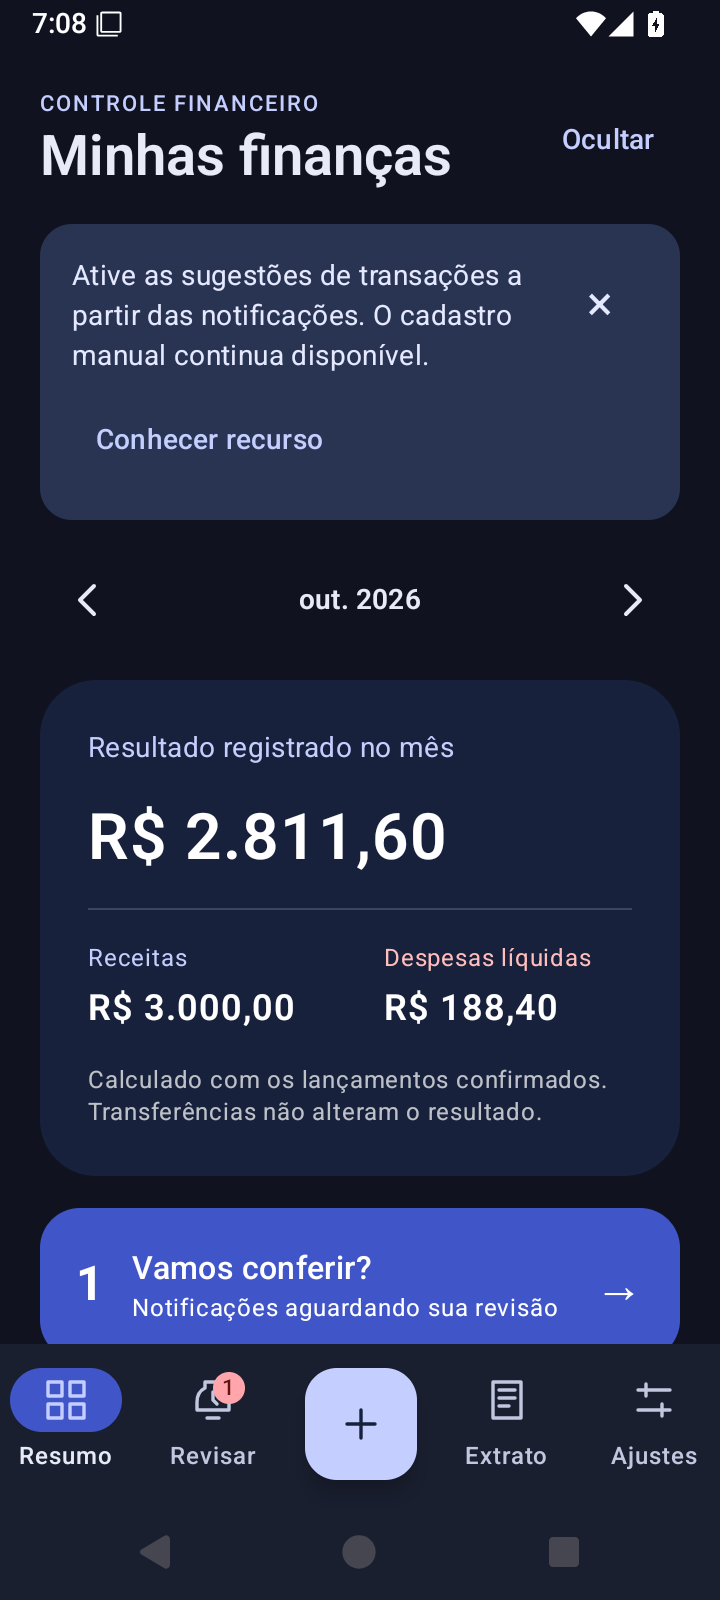
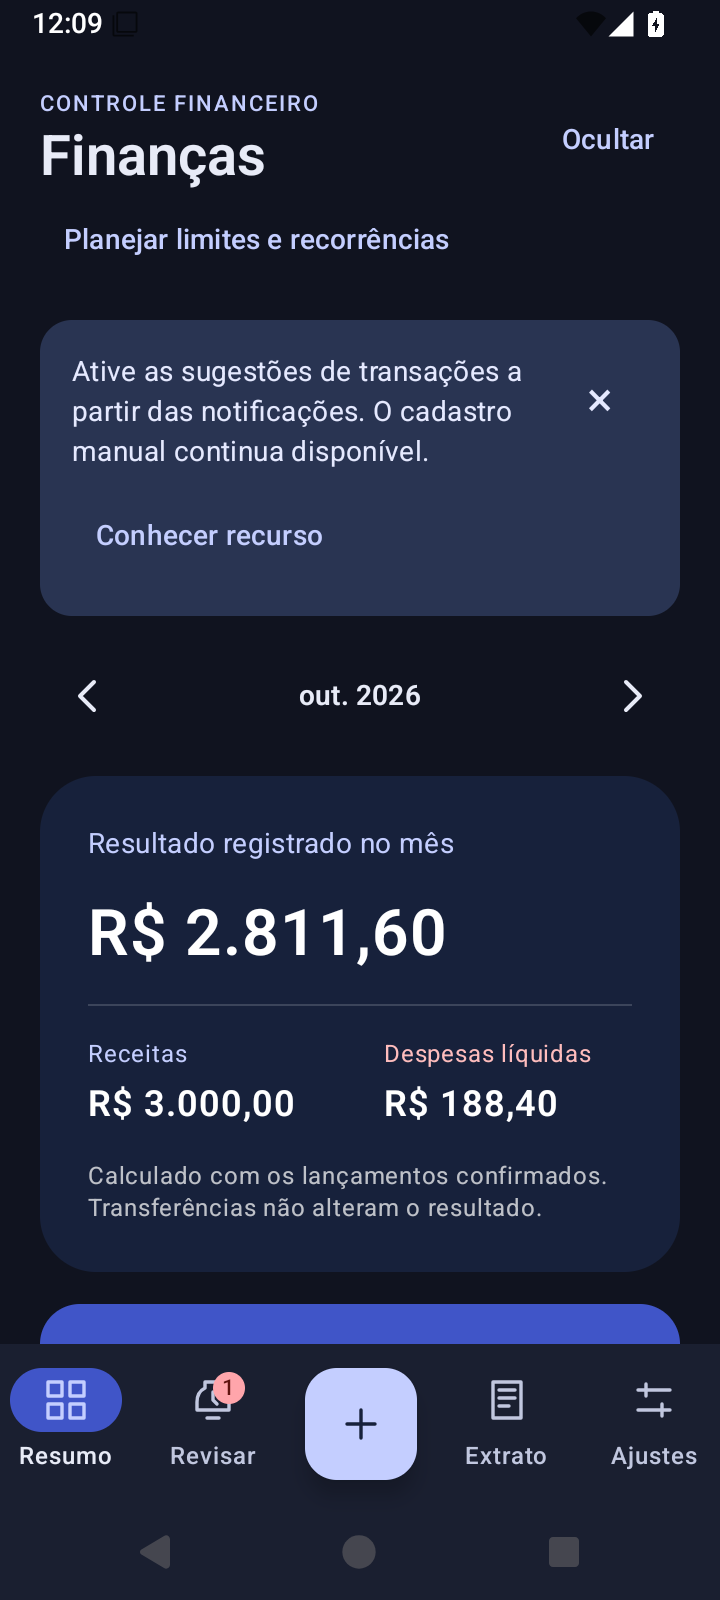
docs: registra 178 testes, limites e capturas dos opcionais [skip ci]

diff --git a/docs/qualidade.md b/docs/qualidade.md
@@ -1,55 +1,67 @@
 # Qualidade e validação
 
-## Referência inicial
+## Referência e falhas anteriores
 
-A execução [40100369119](https://github.com/Mateus1804/controle-financeiro-android/actions/runs/40100369119), com 31 testes Kotlin e 13 testes Android aprovados, constitui a referência da primeira entrega.
+A primeira entrega teve 31 testes Kotlin e 13 testes Android aprovados na execução [40100369119](https://github.com/Mateus1804/controle-financeiro-android/actions/runs/40100369119). A revisão anterior da interface teve 51 testes Kotlin e 41 testes Android aprovados em [40124797196](https://github.com/Mateus1804/controle-financeiro-android/actions/runs/40124797196).
 
-Antes da revisão da interface, houve uma tentativa de executar as tarefas Gradle localmente. O download da distribuição falhou com `Network is unreachable`, antes do início dos testes. Essa limitação do ambiente é registrada separadamente das falhas de código. A compilação e a execução da suíte ocorreram no GitHub Actions.
+Antes dos opcionais, a revisão editorial apresentou uma falha na execução [40129480372](https://github.com/Mateus1804/controle-financeiro-android/actions/runs/40129480372): o teste encontrava tanto o título quanto a aba chamados Ajustes. A compilação e o Lint haviam passado. O seletor foi corrigido para identificar a aba clicável, preservando as verificações do tema e da recriação.
 
-## Revisão da interface — 24/10/2026
+A tentativa local de executar Gradle falhou no download da distribuição com `Network is unreachable`, antes do início dos testes. A validação executável ocorreu no GitHub Actions; a indisponibilidade local não foi registrada como teste aprovado.
 
-O código do commit `36e9849e0a225d5c39b0db104609e73d27de5443` foi validado na execução [40124797196](https://github.com/Mateus1804/controle-financeiro-android/actions/runs/40124797196).
+## Opcionais — 24/10/2026
 
-| Verificação | Resultado |
+O código do commit `72c822d93d5a732236dce0c90517d070d28d35f7` foi validado na execução [40145275584](https://github.com/Mateus1804/controle-financeiro-android/actions/runs/40145275584). O commit posterior de documentação e imagens não altera o código validado.
+
+| Comando ou verificação | Resultado |
 | --- | --- |
-| `:core:test` | 51 testes aprovados; zero falhas, erros ou testes pulados. |
-| Testes instrumentados | 41 testes aprovados no Android 15, API 35, x86_64. |
-| `:app:lintDebug` | Zero erros e 11 avisos: um de SDK alvo e dez de versões de dependências. |
+| `:core:test` | 102 testes aprovados; zero falhas, erros ou testes pulados. |
+| `bash scripts/run-device-tests.sh` | 76 testes instrumentados aprovados no Android 15, API 35, x86_64; zero testes pulados. |
+| `:app:lintDebug` | Zero erros; 14 avisos registrados abaixo. |
 | `:app:assembleDebug` | APK de depuração gerado. |
 | `:app:assembleDebugAndroidTest` | APK da suíte instrumentada gerado. |
 | `python3 scripts/verify-wrapper.py` | SHA-256 do Gradle Wrapper conferido. |
-| `python3 scripts/verify-manifest.py` | Permissões do manifesto mesclado conferidas. |
+| `python3 scripts/verify-manifest.py` | Permissões limitadas e serviços protegidos; backup automático do Android desativado. |
 | `python3 scripts/verify-contrast.py` | Dez pares explícitos de texto e fundo acima de 4,5:1. |
+| `python3 scripts/verify-bank-fixtures.py` | 25 casos sintéticos; zero casos reais anonimizados. |
 | `git diff --check` | Sem problemas de espaços no diff local. |
 
-O resultado foi de **92 testes aprovados**, sem testes pulados nessa execução. Os jobs de compilação e emulador concluíram com sucesso. A compilação também registra um aviso de API obsoleta em `isStatusBarContrastEnforced`, usada no ajuste de compatibilidade das janelas de diálogo; sua substituição permanece prevista para a revisão de SDK.
+O resultado consolidado é de **178 testes aprovados**. Os testes instrumentados utilizaram emulador Pixel 2 com 720 × 1600 pixels e densidade 320, aproximadamente 360 × 800 dp. A suíte usa `IsolatedAndroidTestRunner`, que bloqueia aparelhos físicos para impedir a limpeza acidental de uma instalação com dados pessoais.
 
-As versões de ferramentas e bibliotecas permanecem fixadas nesta revisão. Os avisos de atualização e SDK continuam visíveis, sem supressão de regras para ocultá-los.
+Os avisos de Lint restantes são um de SDK alvo, dez de atualização de dependências e três `UseKtx` nas gravações verificadas de `CapturePreferences`. Os três avisos `UseKtx` permanecem justificados: a extensão KTX `edit` retorna `Unit` e não expõe o resultado de `commit()`, que precisa ser verificado antes de substituir dados ou afirmar que a proteção foi salva. A API padrão é intencional nesses pontos. Os avisos de coleção mutável em estado Compose e conversão de URI foram corrigidos. Não houve supressão de regras. Entre os avisos de compilação estão duas APIs de compatibilidade obsoletas: a alternativa de credencial para versões anteriores e `isStatusBarContrastEnforced` nas janelas de diálogo. As versões da stack permaneceram fixadas.
 
-## Critérios cobertos
+## Critérios exercitados
 
-- **Dinheiro:** digitação em centavos, colagem formatada, vazio e zero, limites, valores existentes, cursor, seleção, substituição, exclusão e rejeição de entradas inválidas.
-- **Contas:** pesquisa e cadastro, persistência, normalização de nomes, ordem estável, reaproveitamento do histórico e independência entre origem da notificação e conta escolhida. A validação de transferências utiliza a mesma identidade normalizada.
-- **Migração:** reconstrução de uma base isolada a partir do esquema 1 exportado e abertura pelo Room atual, com conferência de valores, nomes antigos, identificação da pendência e criação do cadastro de contas na versão 2.
-- **Relatórios:** despesas brutas, estornos separados, receitas e transferências excluídas, períodos, fuso, arredondamento exato dos percentuais e mil grupos com valores altos. A conferência inclui o filtro aberto pelo gráfico e a ocultação de valores e percentuais na interface e na semântica.
-- **Captura:** recusa na apresentação inicial, consentimento específico, fechamento persistente do aviso e escolha manual com captura anteriormente habilitada. No emulador, foram verificados a concessão e a revogação do acesso real ao serviço e a atualização após a retomada da atividade, inclusive sem permissão para enviar alertas.
-- **Interface:** cadastro, edição, temas persistidos, recriação da atividade e do formulário, fonte em 150%, teclado aberto e orientação horizontal.
+- **Dinheiro e contas:** centavos automáticos, colagem, limites, edição, cursor, nomes normalizados, pesquisa, contas recentes e preservação de campos durante cadastro e recriação.
+- **Banco e migrações:** abertura das versões 1 e 2 pelo Room atual, preservação de histórico e nomes antigos, novas tabelas do esquema 3 e vínculos das pendências.
+- **Criptografia e formato:** ida e volta, senha incorreta, adulteração do conteúdo e do cabeçalho autenticado, versões desconhecidas, custo de derivação fixo, limites de tamanho e senha Unicode. Um vetor portátil com dados fictícios é conferido no Kotlin/JVM e no Android.
+- **Restauração:** conferência em base temporária, comparação das tabelas, confirmação da prévia, cancelamento, entrada fracionária em centavos, identificadores repetidos, vínculos inválidos, fluxo limitado de leitura e preservação da base após falha simulada da transação.
+- **Persistência e exclusão:** uma pausa que não pode ser persistida impede a restauração ou a exclusão. Falha da exclusão preserva registros e proteção. Falha posterior na limpeza das preferências é distinguida de uma exclusão financeira já concluída. A configuração de bloqueio não é apresentada como salva após uma falha simulada de gravação.
+- **Seletor de arquivos:** criação do backup pelo seletor real do Android, abertura posterior do arquivo, senha, prévia, confirmação explícita e recuperação do mesmo identificador e valor após apagar a base fictícia de teste.
+- **Duplicidade:** correspondência por valor, tipo, data, origem e descrição, contas distintas do mesmo banco, limites da janela, ordem estável e preservação dos lançamentos manuais após confirmar uma sugestão.
+- **Revisão em sequência:** progresso, próxima pendência por ação explícita, novas notificações fora da sessão, preservação de edição e conferência da atualização da própria notificação.
+- **Planejamento:** limites por mês e categoria, despesas líquidas, estornos, períodos vazios e fuso; previsões fora dos totais e do CSV até confirmação; meses curtos, ano bissexto, vencimento pulado, pausa e confirmação simultânea sem lançamento duplicado.
+- **Alertas e captura:** concessão e revogação do acesso real ao serviço no emulador, atualização ao retomar a atividade, recusa de alertas sem bloquear captura ou revisão e prevenção de consumir um lembrete quando o envio é recusado. O agendamento periódico persistente também é conferido.
+- **Proteção e interface:** política de sessão, preferências persistentes, ocultação das telas e da entrada de links pelo handler real com atividade bloqueada, flags de proteção incluindo calendário nativo, temas, cor renderizada das barras do Android, fonte em 150%, teclado e orientação horizontal.
 
-A suíte que reinicia a base fica restrita ao emulador dedicado por meio de `IsolatedAndroidTestRunner`. O aparelho de uso pessoal fica reservado às validações manuais, com preservação da instalação que contém dados reais.
+O teste de links utiliza a instrumentação do Android para entregar o Intent ao handler real da atividade. A limpeza restaura o Intent de abertura exigido pelo monitor do `ActivityScenario`; isso não altera o fluxo de produção nem dispensa as verificações do bloqueio.
+
+O validador de procedência também passou por quatro verificações locais negativas com dados fictícios: identificador repetido, exemplo sintético sem identificação, caso real sem metadados e possível documento pessoal. Esses testes do validador não foram contados como notificações reais nem somados aos testes JUnit da tabela.
 
 ## Inspeção visual e evidências
 
-Foram inspecionadas capturas de resumo, ajustes, relatório, revisão e formulário nos cenários de tema, fonte ampliada e orientação horizontal. A ação de novo lançamento foi posicionada na barra inferior para evitar sobreposição sobre a legenda, e a rolagem do formulário foi adaptada a telas de pouca altura.
+As capturas de resumo, ajustes, relatórios, revisão, possíveis duplicidades e planejamento foram inspecionadas nos temas claro e escuro. Os cenários também incluem fonte ampliada, teclado e orientação horizontal. A inspeção identificou fundo claro nas barras do Android com o tema escuro; o fundo da janela foi alinhado ao tema e recebeu verificação de cor renderizada. A navegação em telas estreitas com fonte ampliada foi adaptada para impedir a quebra dos rótulos, mantendo o botão de novo lançamento em espaço reservado. O cenário em 150% confere que Resumo permanece em uma linha, sem abreviação, e as capturas aguardam a renderização dos ícones do sistema.
 
-Foram preservadas quatro [capturas com dados fictícios](imagens/) da execução [40123613917](https://github.com/Mateus1804/controle-financeiro-android/actions/runs/40123613917). Os PNGs foram copiados sem alterações e documentam a interface antes da revisão editorial dos títulos e textos. As evidências completas e os relatórios de cada execução permanecem nos artefatos do GitHub Actions, com retenção de 14 dias.
+As [imagens publicadas](imagens/) utilizam somente dados fictícios e foram copiadas sem edição dos PNGs da execução 40145275584. As capturas do planejamento aguardam o encerramento da mensagem temporária de confirmação. Os diálogos de senha e prévia usam proteção explícita contra capturas; seu funcionamento é verificado pelo teste de interface e pelos resultados da restauração.
 
-A conferência dos dez pares de cores e os testes de semântica complementam a inspeção; não representam uma auditoria completa de acessibilidade.
+As evidências completas, os APKs e os relatórios permanecem nos artefatos do GitHub Actions por 14 dias. As imagens selecionadas permanecem versionadas. A conferência dos dez pares de cores e os testes de semântica complementam a inspeção; não representam auditoria completa de acessibilidade.
 
 ## Limitações e pendências
 
-- A validação de notificações reais de Inter, PicPay, Mercado Pago, PagBank/PagSeguro, Nubank e demais origens selecionadas permanece pendente. Os testes de interpretação utilizam exemplos sintéticos.
-- O teste de acesso ao serviço no emulador não homologa formatos bancários, entrega de notificações pelos fabricantes ou reconhecimento de todas as transações.
-- TalkBack manual e execução da suíte em outras versões do Android não foram realizados. A compatibilidade do caminho específico do Android 8.0 ainda exige avaliação própria.
-- Permanecem pendentes a validação do APK assinado de produção e de uma atualização no aparelho com a mesma chave. APKs de depuração de ambientes diferentes podem ter assinaturas distintas.
-- Backup restaurável, conciliação, saldos iniciais, faturas, parcelas, orçamentos, recorrências e biometria continuam fora desta entrega.
-- A análise de consentimento e privacidade não representa aprovação de publicação na Google Play.
+- Não foram fornecidas nem validadas notificações reais de Inter, Nubank, PicPay, Mercado Pago, PagBank ou outras origens. Os 25 casos são sintéticos. A entrega e os formatos reais dependem de [coleta anonimizada e evidências do aparelho](validacao-bancaria.md).
+- A conclusão de autenticação por biometria ou PIN, o comportamento com mudanças da credencial e a proteção no seletor de aplicativos de fabricantes exigem teste manual no aparelho. Os testes automatizados de bloqueio e sessão não substituem essa avaliação.
+- O agendamento e as regras de elegibilidade e repetição dos lembretes foram testados; entrega após ciclos reais de reinício, Doze, parada forçada e restrições do fabricante permanece pendente. Não há garantia de horário exato ou entrega exatamente uma vez em caso de interrupção entre publicação e persistência.
+- TalkBack manual, outras versões do Android e outros provedores do seletor de arquivos não foram avaliados. O caminho específico do Android 8.0 ainda exige execução própria. A inspeção automatizada das janelas nativas requer API 29 ou superior e foi executada na API 35.
+- A recuperação com dados pessoais e a atualização do APK no aparelho com a mesma chave ainda exigem conferência própria. APKs de depuração de ambientes diferentes podem ter assinaturas distintas; desinstalar para contornar a assinatura remove os dados locais.
+- A criptografia do backup e o bloqueio da interface não criptografam o banco Room. A senha não é recuperável. Limpar buffers e excluir arquivos não garante apagamento físico. O formato não recebeu auditoria criptográfica independente.
+- Contas com saldo inicial, conciliação, faturas, parcelas, metas, nuvem, OCR e integração oficial com Open Finance continuam fora desta entrega. O resultado mensal não é apresentado como saldo bancário conciliado.
+- Assinatura de produção, informações públicas exigidas pela loja e revisão para publicação permanecem pendentes. A análise técnica não representa aprovação da Google Play.

diff --git a/README.md b/README.md
@@ -57,13 +57,13 @@ Os valores monetários são armazenados em centavos inteiros. Transferências fi
 
 ## Qualidade
 
-A validação abrange regras Kotlin, persistência e fluxos de interface no Android 15. A cobertura inclui valores monetários, contas, migrações, relatórios, consentimento, confirmação simultânea, criptografia, restauração, planejamento e revisão em sequência. Os casos bancários distinguem procedência sintética de coleta real anonimizada.
+A execução de referência aprovou **102 testes Kotlin e 76 testes instrumentados no Android 15**, sem testes pulados. O Android Lint concluiu com zero erros e 14 avisos documentados. A validação abrange persistência e fluxos de interface. A cobertura inclui valores monetários, contas, migrações, relatórios, consentimento, confirmação simultânea, criptografia, restauração, planejamento e revisão em sequência. Os casos bancários distinguem procedência sintética de coleta real anonimizada.
 
 Os resultados dos comandos, as execuções aprovadas, os avisos e as verificações ainda pendentes estão registrados em [Qualidade e validação](docs/qualidade.md). A validação com bancos reais, a autenticação no aparelho e a recuperação em condições reais de uso exigem avaliação própria.
 
 ## Interface
 
-As capturas utilizam dados fictícios para demonstrar os temas, os relatórios e a revisão de movimentações. Foram registradas antes da revisão editorial dos títulos e textos do aplicativo; a origem das imagens está documentada em [Qualidade e validação](docs/qualidade.md).
+As capturas utilizam dados fictícios para demonstrar os temas, os relatórios, o planejamento e a revisão de movimentações. Foram obtidas no emulador Android 15 durante a validação desta revisão; a origem das imagens está documentada em [Qualidade e validação](docs/qualidade.md).
 
 | Resumo claro | Resumo escuro |
 | --- | --- |
@@ -72,6 +72,14 @@ As capturas utilizam dados fictícios para demonstrar os temas, os relatórios e
 | Relatório por categoria | Revisão da notificação |
 | --- | --- |
 | <img src="docs/imagens/relatorio-categorias.png" alt="Gráfico de despesas brutas por categoria" width="260"> | <img src="docs/imagens/revisao-escuro.png" alt="Formulário de revisão no tema escuro, com exemplo fictício" width="260"> |
+
+| Planejamento claro | Planejamento escuro |
+| --- | --- |
+| <img src="docs/imagens/planejamento-claro.png" alt="Orçamento mensal com dados fictícios no tema claro" width="260"> | <img src="docs/imagens/planejamento-escuro.png" alt="Orçamento mensal com dados fictícios no tema escuro" width="260"> |
+
+| Possível duplicidade | Revisão em sequência |
+| --- | --- |
+| <img src="docs/imagens/possivel-duplicidade.png" alt="Aviso de lançamento manual semelhante, com dados fictícios" width="260"> | <img src="docs/imagens/revisao-em-sequencia.png" alt="Segunda revisão de uma sessão com nova pendência aguardando" width="260"> |
 
 ## Estágio do projeto
 

diff --git a/docs/decisoes.md b/docs/decisoes.md
@@ -117,3 +117,7 @@ Links de notificação passam pela mesma tela de bloqueio. O estado editável da
 O banco Room permanece no armazenamento privado do Android, sem nova camada própria de criptografia. Biometria e proteção de tela não substituem criptografia do banco, proteção do sistema ou avaliação em aparelhos reais. Não há coleta de dados biométricos pelo aplicativo.
 
 A ativação ou desativação do bloqueio só é apresentada como salva após confirmação da persistência. Antes de restaurar ou apagar dados, a pausa da captura e dos lembretes também precisa ser persistida. Na exclusão, a proteção permanece configurada até a transação financeira terminar; falha do banco preserva os registros e o bloqueio. Falha posterior na limpeza das preferências é informada separadamente da exclusão já concluída.
+
+## Navegação com fonte ampliada
+
+Em telas estreitas com fonte ampliada, a barra inferior mantém quatro destinos e o botão de novo lançamento passa para uma área reservada acima dela. O conteúdo recebe espaço próprio para impedir sobreposição de valores e ações. A navegação usual mantém o botão central nas demais configurações. Os rótulos permanecem em uma linha, com texto completo na semântica, e o teste em 150% confere que Resumo não foi quebrado nem abreviado. Os ícones das barras do Android também são sincronizados na retomada e no retorno do foco da janela.

diff --git a/docs/validacao-bancaria.md b/docs/validacao-bancaria.md
@@ -29,6 +29,8 @@ Os casos ficam em [`core/src/test/resources/bank-notifications.tsv`](../core/src
 
 `BankNotificationFixturesTest` executa cada linha contra o interpretador real. O script `scripts/verify-bank-fixtures.py` confere a procedência e os metadados e participa do CI. O filtro de possíveis dados pessoais é complementar e não substitui revisão humana.
 
+O TSV utiliza uma linha por caso. Mensagens com quebras de linha devem ser preservadas integralmente em um teste Kotlin específico, sem achatar o texto apenas para obter reconhecimento. A inclusão de um novo formato depende da evidência correspondente e de uma expectativa revisada.
+
 ## Coleta e anonimização
 
 A avaliação utiliza notificações legítimas do uso normal, sem necessidade de criar operações bancárias apenas para o teste. O registro local deve conter nome e pacote do aplicativo, versão do aplicativo, versão do Android, modelo do aparelho, data de coleta, conexão do serviço, entrega da notificação e resultado da revisão.
